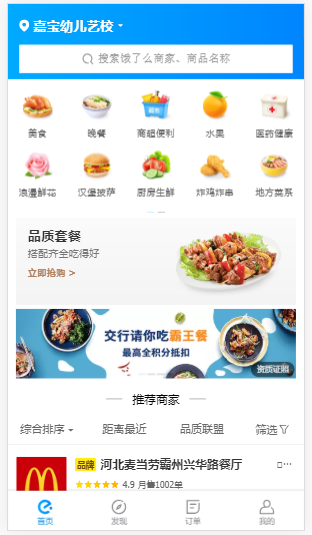
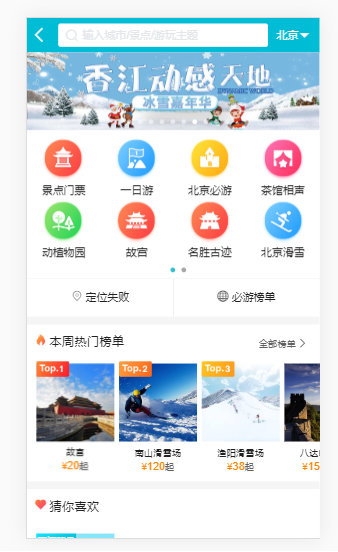
develop home header

diff --git a/src/page/home/components/header.vue b/src/page/home/components/header.vue
@@ -1,16 +1,81 @@
 <template>
     <div class="header">
-        this is header
+        <router-link to = "/back" class = "back iconfont">&#xe64a;</router-link>
+        <div class = "map">
+            <a  href = "#" class = "map-link">
+                <i class = " select iconfont">&#xe650;</i>
+                <span class = "map-link-info">请输入城市/景点/游玩主题</span>
+            </a>
+        </div>
+        <div class = "localtion">
+            <router-link to = "/localtion" href="#">
+                <span>北京</span>
+                <i class="localtion-icon iconfont">&#xe625;</i>
+            </router-link>
+        </div>
     </div>
 </template>
 <script>
 export default {
-    name: "homepage",
-    components: {
+    name :"headerpage",
+    components:{
 
     }
 }
 </script>
 <style scoped lang="stylus">
+    .header
+        height .84rem
+        width 100%
+        background-color #00BCD4
+        display flex
+        line-height .8rem
+        .back
+            display line-block
+            color #ffffff
+            font-size .7rem
+            width 0.8rem
+            heigth .84rem
+            line-height .84rem
+        .map
+            position relative
+            height .6rem
+            margin .14rem 0
+            box-sizing border-box
+            flex-grow 1
+            .map-link
+                display inline-block
+                width 100%
+                height 100%
+                border-radius 0.06rem
+                background-color #ffffff
+                color #cccccc
+                .select
+                    display inline-block
+                    height .6rem
+                    width .5rem
+                    font-size .5rem
+                    position absolute
+                    left .1rem
+                    line-height .6rem
+                .map-link-info
+                    position: absolute;
+                    left: .7rem;
+                    top: 0;
+                    width 3.6rem
+                    height .6rem
+                    line-height .6rem
+                    overflow hidden
+                    white-space nowrap
+                    text-overflow ellipsis
+        .localtion
+            width 1.3rem
+            a
+                color #fff
+                padding 0 .2rem
+                .localtion-icon
+                    font-size .5rem
+                    vertical-align middle
+        
 
 </style>

diff --git a/src/assets/styles/iconfont.css b/src/assets/styles/iconfont.css
@@ -1,0 +1,17 @@
+@font-face {font-family: "iconfont";
+  src: url('./iconfont/iconfont.eot?t=1547347886048'); /* IE9 */
+  src: url('./iconfont/iconfont.eot?t=1547347886048#iefix') format('embedded-opentype'), /* IE6-IE8 */
[1 lines of base64/hex data omitted]
+  url('./iconfont/iconfont.woff?t=1547347886048') format('woff'),
+  url('./iconfont/iconfont.ttf?t=1547347886048') format('truetype'), /* chrome, firefox, opera, Safari, Android, iOS 4.2+ */
+  url('./iconfont/iconfont.svg?t=1547347886048#iconfont') format('svg'); /* iOS 4.1- */
+}
+
+.iconfont {
+  font-family: "iconfont" !important;
+  font-size: 16px;
+  font-style: normal;
+  -webkit-font-smoothing: antialiased;
+  -moz-osx-font-smoothing: grayscale;
+}
+

diff --git a/src/main.js b/src/main.js
@@ -1,13 +1,20 @@
 import Vue from 'vue'
 import App from './App.vue'
+import fastclick from 'fastclick'
 import '../src/assets/styles/reset.css'
-
-
+import './assets/styles/border.css'
+import './assets/styles/iconfont.css'
+import router from '../router/router.js'
 // import mock from '../mock/mock'
+
+
+fastclick.attach(document.body)
+
 
 
 Vue.config.productionTip = false
 
 new Vue({
+    router,
     render: h => h(App),
 }).$mount('#app')

diff --git a/src/App.vue b/src/App.vue
@@ -1,14 +1,14 @@
 <template>
     <div id="app">
-        <home></home>
+        <homepage></homepage>
     </div>
 </template>
 <script>
-import home from './page/home/home.vue'
+import homepage from './page/home/home.vue'
 export default {
-    name: "homepage",
+    name :"app",
     components: {
-        home
+        homepage
     }
 }
 </script>

diff --git a/router/router.js b/router/router.js
@@ -1,0 +1,14 @@
+import router from 'vue-router'
+import vue from 'vue'
+
+vue.use(router)
+
+export default new router({
+    mode :"history",
+    routes:[{
+        path:'/about'
+    },{
+        path:'/localtion'
+    }
+    ]
+})

diff --git a/src/page/home/home.vue b/src/page/home/home.vue
@@ -7,7 +7,7 @@
 import homeheader from './components/header.vue'
 
 export default {
-    name: "homepage",
+    name : "homepage",
     components: {
         homeheader
     }
